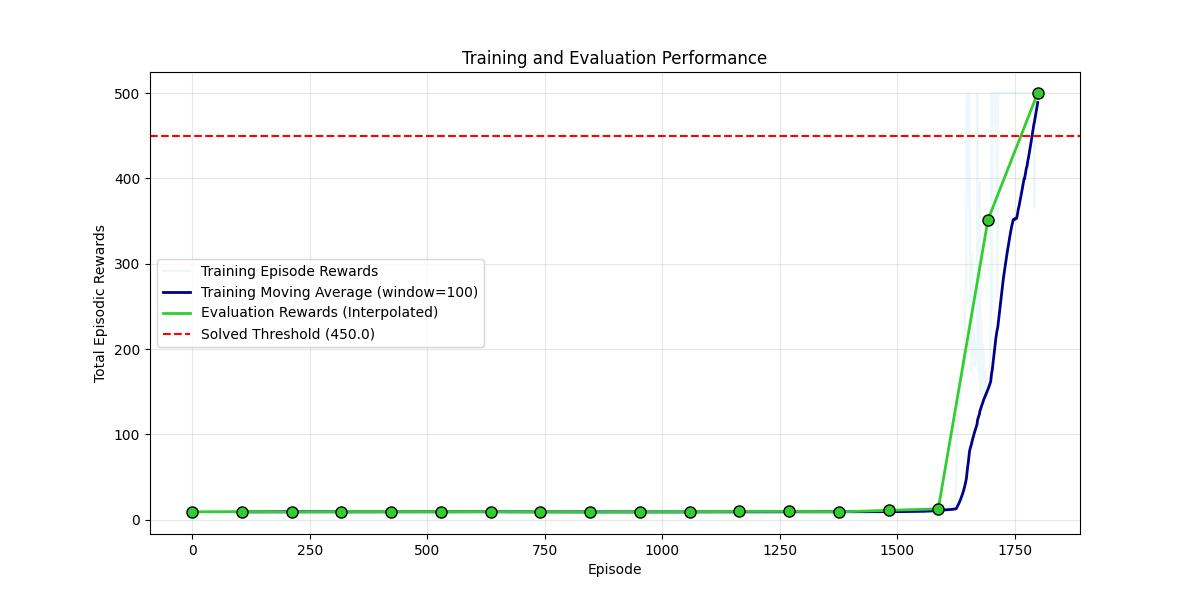
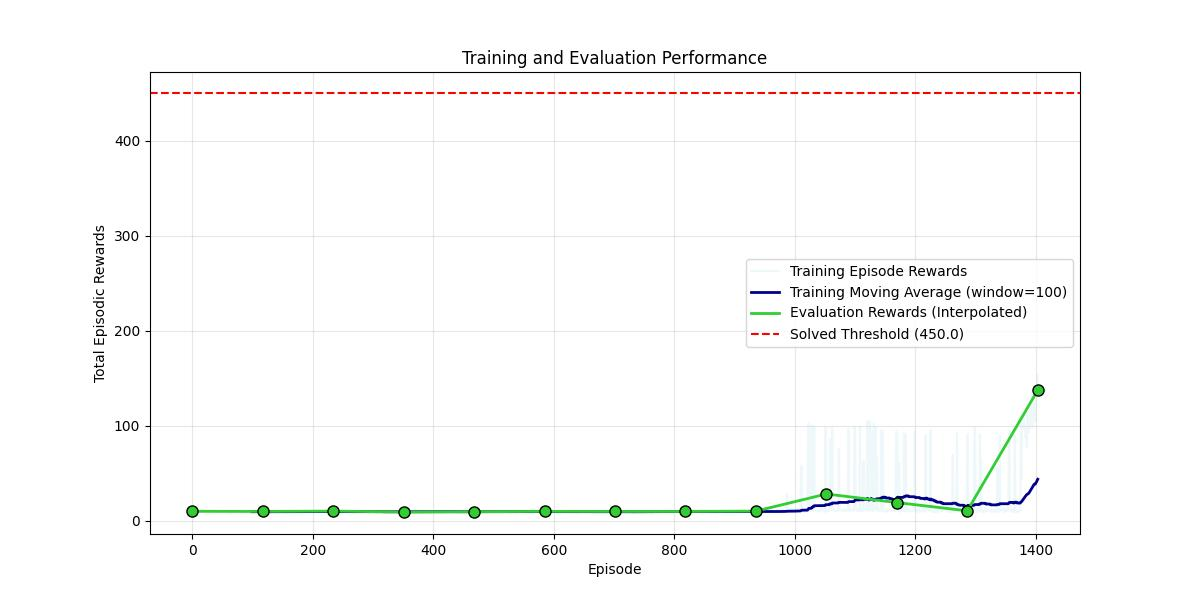
Fixing projection and N-step flushing

diff --git a/Lesson-3/DRL/8. RAINBOW/agent.py b/Lesson-3/DRL/8. RAINBOW/agent.py
@@ -141,7 +141,9 @@ class AgentDQN(DQNBase):
         self.online_model.reset_noise()
         self.target_model.reset_noise()
 
-    def _project_distribution(self, next_distributions, rewards, dones, ns):
+    def _project_distribution(
+        self, next_distributions: torch.Tensor, rewards: torch.Tensor, dones: torch.Tensor, ns: torch.Tensor
+    ) -> torch.Tensor:
         """
         Project the target distribution onto the support.
 
@@ -155,11 +157,6 @@ class AgentDQN(DQNBase):
             Projected distribution [batch_size, n_atoms]
         """
         batch_size = rewards.shape[0]
-        delta_z = self.delta_z
-        v_min = self.v_min
-        v_max = self.v_max
-        n_atoms = self.n_atoms
-        support = self.support
 
         # Convert log probabilities to probabilities
         next_probs = next_distributions.exp()
@@ -171,33 +168,31 @@ class AgentDQN(DQNBase):
         dones = dones.unsqueeze(1)  # [batch_size, 1]
 
         # Projected support: Tz_j = r + gamma^n * z_j * (1 - done)
-        Tz = rewards + gamma_n * support.unsqueeze(0) * (1 - dones)
-        Tz = Tz.clamp(min=v_min, max=v_max)
+        Tz = rewards + gamma_n * self.support.unsqueeze(0) * (1 - dones)
+        # Clamp, such that it does not go over bounds
+        Tz = Tz.clamp(min=self.v_min, max=self.v_max)
 
-        # Compute projection indices
-        b = (Tz - v_min) / delta_z
-        lower = b.floor().long()
-        upper = b.ceil().long()
+        # Compute projection indices (atoms)
+        b = (Tz - self.v_min) / self.delta_z
+        lower = b.floor().clamp(0, self.n_atoms - 1)
+        upper = b.ceil().clamp(0, self.n_atoms - 1)
 
-        # Handle the case where l == u (when b is an integer)
-        lower[(upper > 0) * (lower == upper)] -= 1
-        upper[(lower < (n_atoms - 1)) * (lower == upper)] += 1
+        # Distribute probability mass using clean-rl's logic
+        # The (l == b).float() term is crucial for placing all mass on 'l' when 'b' is an exact integer.
+        d_m_l = (upper.float() + (lower == b).float() - b) * next_probs
+        d_m_u = (b - lower.float()) * next_probs
 
         # Initialize projected distribution
-        projected_dist = torch.zeros((batch_size, n_atoms), device=self.device)
+        projected_dist = torch.zeros((batch_size, self.n_atoms), device=self.device)
 
         # Distribute probability mass
-        offset = torch.arange(batch_size, device=self.device).unsqueeze(1).expand(batch_size, n_atoms)
+        offset = torch.arange(batch_size, device=self.device).unsqueeze(1).expand(batch_size, self.n_atoms)
 
         # Add probability mass to lower bound
-        projected_dist.view(-1).index_add_(
-            0, (lower + offset * n_atoms).view(-1), (next_probs * (upper.float() - b)).view(-1)
-        )
+        projected_dist.view(-1).index_add_(0, (lower + offset * self.n_atoms).long().view(-1), d_m_l.view(-1))
 
         # Add probability mass to upper bound
-        projected_dist.view(-1).index_add_(
-            0, (upper + offset * n_atoms).view(-1), (next_probs * (b - lower.float())).view(-1)
-        )
+        projected_dist.view(-1).index_add_(0, (upper + offset * self.n_atoms).long().view(-1), d_m_u.view(-1))
 
         return projected_dist
 
@@ -205,6 +200,8 @@ class AgentDQN(DQNBase):
         """
         Implements learning with RAINBOW, combining all techniques.
         """
+        if len(self.memory) < self.batch_size:
+            return 0.0
         # Anneal beta for PER
         progress = min(self.learning_step_count / self.beta_increase_steps, 1.0)
         self.current_beta = self.beta_start + (self.beta_end - self.beta_start) * progress
@@ -224,7 +221,7 @@ class AgentDQN(DQNBase):
         ns = torch.LongTensor(ns).to(self.device)
 
         # 3. Get current state-action distribution
-        current_dist_log = self.online_model(states)  # [batch_size, action_space, n_atoms]
+        current_dist_log: torch.Tensor = self.online_model(states)  # [batch_size, action_space, n_atoms]
         current_dist_log = current_dist_log.gather(
             1, actions.unsqueeze(1).unsqueeze(2).expand(-1, -1, self.n_atoms)
         ).squeeze(1)
@@ -232,16 +229,17 @@ class AgentDQN(DQNBase):
         # 4. Calculate target distribution using Double DQN
         with torch.no_grad():
             # Disable noise first
-            # self.online_model.eval()
-            # self.target_model.eval()
-            # Use online network to select best actions
-            online_next_log_probs = self.online_model(next_states)
+            self.online_model.eval()
+            self.target_model.eval()
+
+            # 1. Use online network to select best actions
+            online_next_log_probs: torch.Tensor = self.online_model(next_states)
             online_next_probs = online_next_log_probs.exp()
             online_next_q = (online_next_probs * self.support.view(1, 1, -1)).sum(dim=-1)
             next_best_actions = torch.argmax(online_next_q, dim=1)
 
-            # Use target network to evaluate the distribution for selected actions
-            target_next_log_probs = self.target_model(next_states)
+            # 2. Use target network to evaluate the distribution for selected actions
+            target_next_log_probs: torch.Tensor = self.target_model(next_states)
             target_next_dist = target_next_log_probs.gather(
                 1, next_best_actions.unsqueeze(1).unsqueeze(2).expand(-1, -1, self.n_atoms)
             ).squeeze(1)
@@ -251,9 +249,10 @@ class AgentDQN(DQNBase):
 
             # Add small epsilon to avoid log(0) in the loss calculation
             projected_dist = projected_dist.clamp(min=1e-8)
-            # Enable it back
-            # self.online_model.train()
-            # self.target_model.train()
+
+            # Enable noise back
+            self.online_model.train()
+            self.target_model.train()
 
         # 5. Calculate cross-entropy loss, current dist_log is already using logartihm
         loss = -(projected_dist * current_dist_log).sum(dim=-1)
@@ -326,10 +325,7 @@ class AgentDQN(DQNBase):
 
             if done:
                 # Episode finished, flush the n-step buffer
-                while self.n_step_buffer:
-                    n_step_reward, n_step_next_state, n_step_done, n = self._get_n_step_info()
-                    start_state, start_action, _, _, _ = self.n_step_buffer.popleft()
-                    self.memory.push(start_state, start_action, n_step_reward, n_step_next_state, n_step_done, n)
+                self.n_step_buffer.clear()
 
                 if "episode" in info:
                     self.train_rewards.append(info["episode"]["r"])

diff --git a/Lesson-3/DRL/6. Distributional DQN/agent.py b/Lesson-3/DRL/6. Distributional DQN/agent.py
@@ -107,7 +107,9 @@ class AgentDQN(DQNBase):
             action = torch.argmax(q_values, dim=1).squeeze().item()
             return action
 
-    def _project_distribution(self, next_distributions, rewards, dones, ns):
+    def _project_distribution(
+        self, next_distributions: torch.Tensor, rewards: torch.Tensor, dones: torch.Tensor, ns: torch.Tensor
+    ) -> torch.Tensor:
         """
         Project the target distribution onto the support.
 
@@ -121,11 +123,6 @@ class AgentDQN(DQNBase):
             Projected distribution [batch_size, n_atoms]
         """
         batch_size = rewards.shape[0]
-        delta_z = self.delta_z
-        v_min = self.v_min
-        v_max = self.v_max
-        n_atoms = self.n_atoms
-        support = self.support
 
         # Convert log probabilities to probabilities
         next_probs = next_distributions.exp()
@@ -137,33 +134,31 @@ class AgentDQN(DQNBase):
         dones = dones.unsqueeze(1)  # [batch_size, 1]
 
         # Projected support: Tz_j = r + gamma^n * z_j * (1 - done)
-        Tz = rewards + gamma_n * support.unsqueeze(0) * (1 - dones)
-        Tz = Tz.clamp(min=v_min, max=v_max)
+        Tz = rewards + gamma_n * self.support.unsqueeze(0) * (1 - dones)
+        # Clamp, such that it does not go over bounds
+        Tz = Tz.clamp(min=self.v_min, max=self.v_max)
 
-        # Compute projection indices
-        b = (Tz - v_min) / delta_z
-        lower = b.floor().long()
-        upper = b.ceil().long()
+        # Compute projection indices (atoms)
+        b = (Tz - self.v_min) / self.delta_z
+        lower = b.floor().clamp(0, self.n_atoms - 1)
+        upper = b.ceil().clamp(0, self.n_atoms - 1)
 
-        # Handle the case where lower == upper (when b is an integer)
-        lower[(upper > 0) * (lower == upper)] -= 1
-        upper[(lower < (n_atoms - 1)) * (lower == upper)] += 1
+        # Distribute probability mass using clean-rl's logic
+        # The (l == b).float() term is crucial for placing all mass on 'l' when 'b' is an exact integer.
+        d_m_l = (upper.float() + (lower == b).float() - b) * next_probs
+        d_m_u = (b - lower.float()) * next_probs
 
         # Initialize projected distribution
-        projected_dist = torch.zeros((batch_size, n_atoms), device=self.device)
+        projected_dist = torch.zeros((batch_size, self.n_atoms), device=self.device)
 
         # Distribute probability mass
-        offset = torch.arange(batch_size, device=self.device).unsqueeze(1).expand(batch_size, n_atoms)
+        offset = torch.arange(batch_size, device=self.device).unsqueeze(1).expand(batch_size, self.n_atoms)
 
         # Add probability mass to lower bound
-        projected_dist.view(-1).index_add_(
-            0, (lower + offset * n_atoms).view(-1), (next_probs * (upper.float() - b)).view(-1)
-        )
+        projected_dist.view(-1).index_add_(0, (lower + offset * self.n_atoms).long().view(-1), d_m_l.view(-1))
 
         # Add probability mass to upper bound
-        projected_dist.view(-1).index_add_(
-            0, (upper + offset * n_atoms).view(-1), (next_probs * (b - lower.float())).view(-1)
-        )
+        projected_dist.view(-1).index_add_(0, (upper + offset * self.n_atoms).long().view(-1), d_m_u.view(-1))
 
         return projected_dist
 
@@ -180,6 +175,8 @@ class AgentDQN(DQNBase):
         7. Backpropogate
         8. Assign new priorities as cross-entropy loss to the samples_i
         """
+        if len(self.memory) < self.batch_size:
+            return 0.0
         # Anneal beta for PER
         progress = min(self.learning_step_count / self.beta_increase_steps, 1.0)
         self.current_beta = self.beta_start + (self.beta_end - self.beta_start) * progress
@@ -292,10 +289,7 @@ class AgentDQN(DQNBase):
 
             if done:
                 # Episode finished, flush the n-step buffer
-                while self.n_step_buffer:
-                    n_step_reward, n_step_next_state, n_step_done, n = self._get_n_step_info()
-                    start_state, start_action, _, _, _ = self.n_step_buffer.popleft()
-                    self.memory.push(start_state, start_action, n_step_reward, n_step_next_state, n_step_done, n)
+                self.n_step_buffer.clear()
 
                 if "episode" in info:
                     self.train_rewards.append(info["episode"]["r"])

diff --git a/Lesson-3/DRL/7. Noisy Nets/agent.py b/Lesson-3/DRL/7. Noisy Nets/agent.py
@@ -100,6 +100,8 @@ class AgentDQN(DQNBase):
         """
         Implements learning with Noisy Networks and Prioritized Experience Replay (PER).
         """
+        if len(self.memory) < self.batch_size:
+            return 0.0
         # Anneal beta for PER
         progress = min(self.learning_step_count / self.beta_increase_steps, 1.0)
         self.current_beta = self.beta_start + (self.beta_end - self.beta_start) * progress
@@ -124,8 +126,8 @@ class AgentDQN(DQNBase):
         # 4. Calculate target Q-values using Double DQN
         with torch.no_grad():
             # Disable noise first
-            # self.online_model.eval()
-            # self.target_model.eval()
+            self.online_model.eval()
+            self.target_model.eval()
             # Use online network to select best actions
             next_actions = torch.argmax(self.online_model(next_states), dim=1)
 
@@ -136,8 +138,8 @@ class AgentDQN(DQNBase):
             gamma_n = self.gamma**ns
             targets = rewards + gamma_n * next_q_values * (1 - dones)
             # Enable it back
-            # self.online_model.train()
-            # self.target_model.train()
+            self.online_model.train()
+            self.target_model.train()
         # 5. Calculate TD-errors for PER
         td_errors = torch.abs(q_values - targets)
 
@@ -206,10 +208,7 @@ class AgentDQN(DQNBase):
 
             if done:
                 # Episode finished, flush the n-step buffer
-                while self.n_step_buffer:
-                    n_step_reward, n_step_next_state, n_step_done, n = self._get_n_step_info()
-                    start_state, start_action, _, _, _ = self.n_step_buffer.popleft()
-                    self.memory.push(start_state, start_action, n_step_reward, n_step_next_state, n_step_done, n)
+                self.n_step_buffer.clear()
 
                 if "episode" in info:
                     self.train_rewards.append(info["episode"]["r"])

diff --git a/Lesson-3/DRL/5. Multi-step Return/agent.py b/Lesson-3/DRL/5. Multi-step Return/agent.py
@@ -156,10 +156,7 @@ class AgentDQN(DQNBase):
 
             if done:
                 # Episode finished, flush the n-step buffer
-                while self.n_step_buffer:
-                    n_step_reward, n_step_next_state, n_step_done, n = self._get_n_step_info()
-                    start_state, start_action, _, _, _ = self.n_step_buffer.popleft()
-                    self.memory.push(start_state, start_action, n_step_reward, n_step_next_state, n_step_done, n)
+                self.n_step_buffer.clear()
 
                 if "episode" in info:
                     self.train_rewards.append(info["episode"]["r"])
